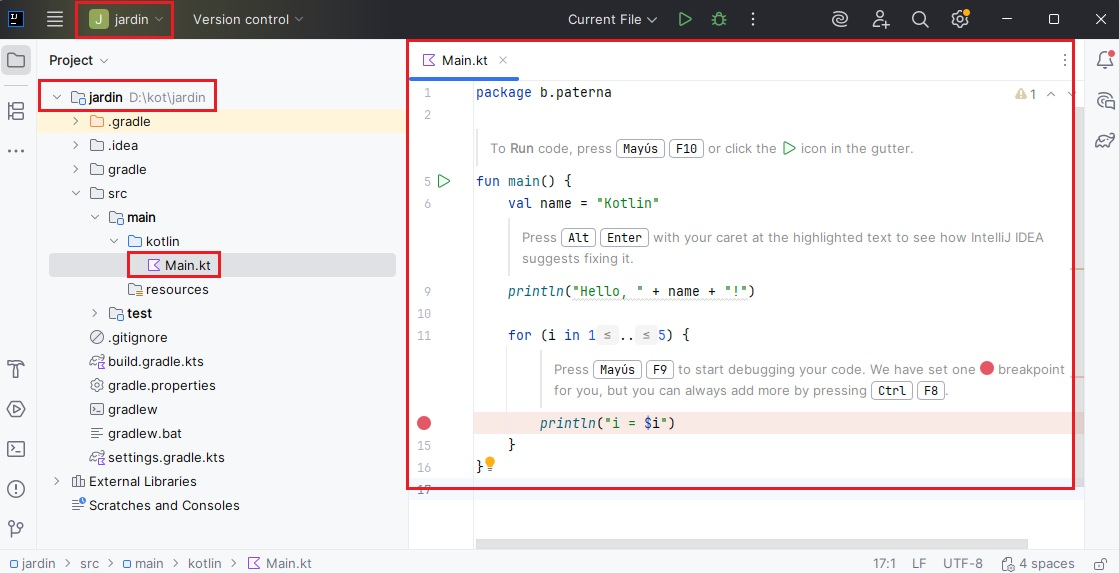
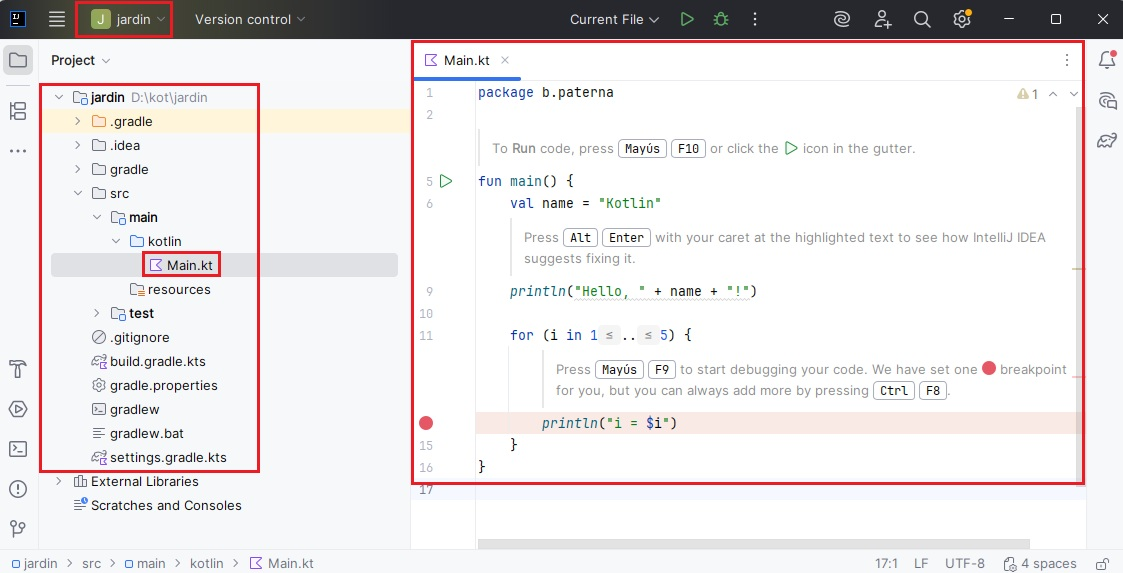
10jul

diff --git a/docs/kotlin01.md b/docs/kotlin01.md
@@ -13,7 +13,6 @@
 
 Para el desarrollo de nuestras aplicaciones utilizaremos el Entorno de Desarrollo Integrado (IDE) **IntelliJ IDEA**. Para la creación de estos apuntes se ha utilizado la versión **2025.2.6.2 Community Edition**.
 
-
 <span class="mi_h3">Instalación en los ordenadores de clase</span>
 
 Para instalar IntelliJ en el ordenador del aula, sigue estos pasos:
@@ -45,58 +44,52 @@ Para realizar la instalación en tu equipo personal con Windows:
 
 Antes de empezar a crear programas, es importante que mantengas tu espacio de trabajo organizado. Es recomendable que crees una carpeta raíz en tu unidad de almacenamiento (por ejemplo, una carpeta llamada `kot` dentro de tu unidad de trabajo) donde guardar de forma ordenada los proyectos del curso.
 
-> **Consejo de personalización:** Puedes cambiar la apariencia del entorno pulsando en el icono de la **rueda dentada (Ajustes)** en la esquina inferior izquierda de la pantalla de bienvenida. 
+> **Consejo de personalización:** Puedes cambiar la apariencia del entorno pulsando en el icono de la **rueda dentada (Ajustes)** en la esquina inferior izquierda de la pantalla de bienvenida. Para estas explicaciones utilizaremos el modo de color claro (*Light Mode*). 
 
 
-![Imagen Kotlin 1](img/kotlin01.jpg){ width="600" }
+![Imagen Kotlin 1](img/kotlin01.jpg)
 
-Para estas explicaciones utilizaremos el modo de color claro (*Light Mode*).
 
 
 <span class="mi_h3">Primer programa y su ejecución</span>
 
-Antes de crear nuestro primer programa, es importante introducir un concepto clave: **Gradle**. Gradle es un sistema de gestión y construcción de proyectos (denominado build system). Aunque al principio realizaremos programas sencillos, utilizar Gradle desde el primer día nos permitirá estructurar el proyecto bajo un estándar profesional y nos facilitará la tarea de añadir librerías externas o dependencias más adelante sin tener que configurar todo manualmente.
+Antes de crear nuestro primer programa, es importante introducir un concepto clave: **Gradle**. Gradle es un sistema de gestión y construcción de proyectos (denominado build system) que nos permitirá estructurar el proyecto bajo un estándar profesional y nos facilitará la tarea de añadir librerías externas o dependencias sin tener que configurar todo manualmente. Aunque al principio realizaremos programas sencillos utilizaremos Gradle desde el primer día. 
 
-Para crear tu primer proyecto en Kotlin utilizando este sistema, sigue estos pasos:
+Para crear tu primer proyecto en **Kotlin** con **Gradle**, abre IntelliJ IDEA y haz clic en **New Project** en la ventana de inicio, como se muestra en la siguiente imagen:
 
-1. Abre IntelliJ IDEA y haz clic en **New Project** en la ventana de inicio.
+![Imagen Kotlin 2](img/kotlin02.jpg)
 
-![Imagen Kotlin 2](img/kotlin02.jpg){ width="600" }
+También puedes crear un proyecto nuevo desde el menú `File > New > Project`. Elijas el camino que elijas, en ambos casos aparecerá la ventana en la que configurar los parámetros de tu nuevo proyecto. Realiza lo siguiente:
 
-También puedes crear un proyecto nuevo desde el menú `File > New > Project`. Elijas el camino que elijas, en ambos casos aparecerá la ventana en la que indicar los datos de tu nuevo proyecto:
+* Marca **Kotlin** en la columna de la izquierda.
+* **Name:** Indica el nombre de tu proyecto (en el caso del ejemplo es `jardin`)
+* **Location:** Selecciona tu directorio de trabajo (por ejemplo, `D:\kot` o la ruta de tu carpeta de usuario).
+* **Build system:** Selecciona **Gradle**.
+* **JDK:** Selecciona la versión disponible de Java instalada en el sistema.
+* **Gradle DSL:** Selecciona **Kotlin**.
+* Marca la opción **Add sample code**.
+* Indica tu inicial seguida de un punto y tu apellido en GroupId dentro de **Advance Settings:** (en el caso del ejemplo es `b.paterna`). 
 
-![Imagen Kotlin 3](img/kotlin03.jpg){ width="600" }
+Puedes ver toda esta información en la siguiente imagen:
 
+![Imagen Kotlin 3](img/kotlin03.jpg)
 
-2. Configura los parámetros en la ventana de configuración:
-    * Asegúrate de marcar **Kotlin** en la columna de la izquierda.
-    * **Name:** Indica el nombre de tu proyecto (en el caso del ejemplo es `jardin`)
-    * **Location:** Selecciona tu directorio de trabajo (por ejemplo, `D:\kot` o la ruta de tu carpeta de usuario).
-    * **Build system:** Selecciona **Gradle**.
-    * **JDK:** Selecciona la versión disponible de Java instalada en el sistema.
-    * **Gradle DSL:** Selecciona **Kotlin**.
-    * Marca la opción **Add sample code**.
-    * Indica tu inicial seguida de un punto y tu apellido en GroupId dentro de **Advance Settings:** (en el caso del ejemplo es `b.paterna`). 
-
-3. Haz clic en **Create** y espera a que IntelliJ prepare el entorno y sincronice Gradle por primera vez (este proceso puede tardar unos instantes la primera vez).
-
-
-Verás lo siguiente:
-
-![Imagen Kotlin 4](img/kotlin04.jpg){ width="600" }
-
-Si vas a tu unidad de trabajo verás que se ha creado la carpeta `jardin` dentro de la carpeta `kot`. 
-
-Al crearse el proyecto bajo el sistema de Gradle, la interfaz de IntelliJ mostrará una estructura de carpetas en el margen izquierdo diseñada para proyectos profesionales:
+Ua vez tengas todos los datos, haz clic en **Create** y espera a que IntelliJ prepare el entorno y sincronice Gradle por primera vez (este proceso puede tardar unos instantes). Cuando termine de preparar el proyecto se habrá creado la carpeta `jardin` dentro de la carpeta `kot` y dentro de `jardin` la estructura de carpetas siguiente:
 
 * **`.idea` / `.gradle` / `build`**: Carpetas de configuración interna de IntelliJ, de Gradle y del proceso de compilación. No deben modificarse manualmente.
 * **`build.gradle.kts`**: Es el archivo de configuración de Gradle. En él definiremos el comportamiento del proyecto y las librerías o dependencias externas que queramos descargar de forma automática.
 * **`src/main/kotlin`**: Es el directorio raíz donde se almacena todo el código fuente de nuestra aplicación. Es la carpeta más importante del proyecto.
 * **`Main.kt`**: Archivo autogenerado (gracias a la opción *Add sample code*) que se encuentra dentro de la ruta de código fuente y que contiene el punto de entrada de nuestro programa.
 
-Para que un proyecto en Kotlin pueda ejecutarse, requiere como mínimo tener un punto de entrada definido por una función llamada `main`. Kotlin utiliza la palabra reservada `fun` para declarar funciones.
 
-Reemplaza el código autogenerado del archivo `Main.kt` con el siguiente programa inicial (que simula un sistema de riego de una planta):
+Puedes ver esta información en la siguiente imagen:
+
+![Imagen Kotlin 4](img/kotlin04.jpg)
+
+
+**Ejecución del programa**
+
+Reemplaza el código autogenerado del archivo `Main.kt` con el siguiente código (que simula un sistema de riego de una planta):
 
 ```kotlin
 fun main() {